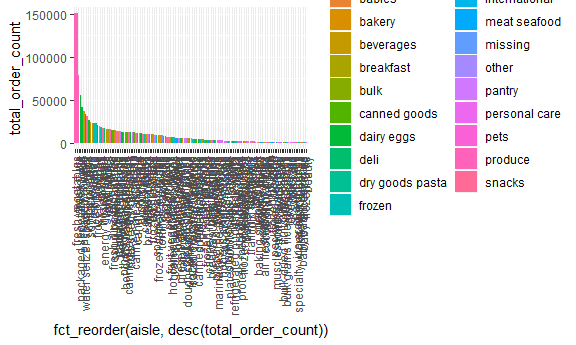
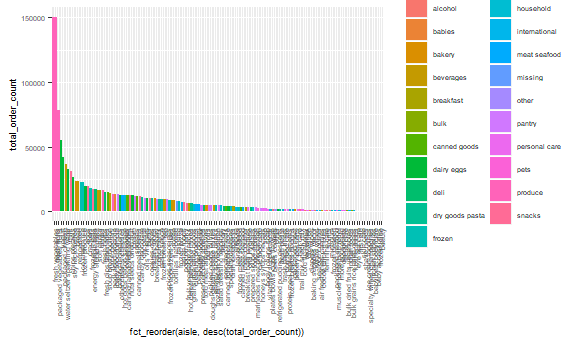
additional details

diff --git a/p8105_hw3_cac2225.md b/p8105_hw3_cac2225.md
@@ -44,7 +44,15 @@ library(dplyr)
 library(ggplot2)
 library(patchwork)
 library(forcats)
+library(ggridges)
 ```
+
+    ## 
+    ## Attaching package: 'ggridges'
+
+    ## The following object is masked from 'package:ggplot2':
+    ## 
+    ##     scale_discrete_manual
 
 To clean the dataset, the variable names will be cleaned using the janitor package, function clean\_names. Change the variable names as needed. The data is filtered based on topic, Overall Health, and responses Excellent to Poor. The response variable will be turned into a factor variable and its responses ordered.
 
@@ -184,6 +192,9 @@ First the data Instacart is loaded and the package forcats is loaded to be used 
 instacart = instacart
 ```
 
+Preliminary description of dataset
+----------------------------------
+
 ``` r
 names(instacart)
 ```
@@ -202,6 +213,9 @@ To perform a preliminary review of the dataset, the names of the variables are f
 It seems that there are orders that are made with descriptions of the orders using variables such as giving each order an ID number (order\_id), listing the day (order\_dow) and hour (order\_hour\_of\_day) the order was made, days since the prior order was made (days\_since\_prior\_order) etc. Order\_dow has values from 0 to 6, each number corresponding to a day of the week. The orders consist of products which are assigned product ids (product\_id), described by what ailse and department they came from (aisle, aisle\_id, department, department\_id), ordered by which user (user\_id), and the product's name (product\_name). Key variables would include order\_id, user\_id, product\_id, department\_id and aisle\_id, since by having these variables, one can determine important information, such as what product was ordered by whom and where that product came from. The data structure appears tidy since the variables are listed as column names and corresponding values are listed under each variable.
 
 To describe the size of the dataset, the number of observations and number of variables are 1384617, 15.
+
+Answering questions about the dataset instacart
+-----------------------------------------------
 
 ``` r
 instacart %>% 
@@ -242,15 +256,12 @@ Using the n\_distinct and count functions, there are 134 distinct aisle\_ids, th
 
 ``` r
 orders_count = instacart %>% 
-    group_by(aisle, order_id, aisle_id, department) %>%
-    summarise(order_count = n()) %>% 
-    group_by(aisle, aisle_id, department) %>% 
-    summarise(total_order_count =
-                sum(order_count))
+    group_by(aisle, aisle_id, department) %>%
+    summarise(total_order_count = n())
 
 ggplot(orders_count, aes(fct_reorder(aisle, desc(total_order_count)), total_order_count, fill = department)) + 
   geom_bar(stat = "identity") + 
-  theme(axis.text.x = element_text(angle = 90, vjust = 0.5, hjust = 1))
+  theme(axis.text.x = element_text(angle = 90, vjust = 0.5, hjust = 1), text = element_text(size = 7))
 ```
 
 <img src="p8105_hw3_cac2225_files/figure-markdown_github/number ordered items per aisle-1.png" width="90%" />
@@ -285,3 +296,78 @@ A 2x7 table is formed from the information filtered and summarized from the orig
 
 Problem 3
 =========
+
+The dataset is first loaded.
+
+``` r
+ny_noaa = ny_noaa
+```
+
+The ny\_noaa dataset consists of seven variables that describe weather station (id), amount of precipitation (prcp), amount of snowfall and depth (snow and snwd), temperature (tmax and tmin) and date (date). The total number of observation rows and number of columns are 2595176, 7. Key variables would be id and date, since these provide specific identification for each observation. The dataset is tidy since each variable is its own seperate column. The date column could be further seperated into month, year and day.
+
+Each weather station might only collect a certain subset of variables, thus there is missing data. Missing data could cause an issue when we looking for trends, skewing or hiding any potential relationships that should normally appear in the data/plot visualizations.
+
+``` r
+ny_noaa = ny_noaa %>% 
+  separate(date, into = c("year", "month", "day"), sep = "-" ) %>% 
+  mutate(prcp = as.numeric(prcp)/10,
+         tmin = as.numeric(tmin)/10,
+         tmax = as.numeric(tmax)/10)
+```
+
+Since the values of prcp, tmin and tmax are originally in tenths of a millimeter, they should first be converted into numeric variables, then divided by 10 to convert into millimeters. Additionally, to seperate the date variable, the separate function is used and the values are split via the symbol "-".
+
+``` r
+ny_noaa %>% 
+  group_by(snow) %>% 
+  summarise(common_snowfall = n()) %>% 
+  arrange(desc(common_snowfall))
+```
+
+    ## # A tibble: 282 x 2
+    ##     snow common_snowfall
+    ##    <int>           <int>
+    ##  1     0         2008508
+    ##  2    NA          381221
+    ##  3    25           31022
+    ##  4    13           23095
+    ##  5    51           18274
+    ##  6    76           10173
+    ##  7     8            9962
+    ##  8     5            9748
+    ##  9    38            9197
+    ## 10     3            8790
+    ## # ... with 272 more rows
+
+Using the group by and summarise functions, the most commonly observed values for snowfall are 0, NA and 25 mm. 0 may be the most common since it only really snows in the winter months in New York, which is three to four months out of the year. NA is very common since not all of the stations collect values on snowfall.
+
+``` r
+plot_mean_max_temp = ny_noaa %>% 
+  filter(month == "01" | month == "07") %>%
+  group_by(id, month, year) %>% 
+  summarise(mean_max_temp = mean(tmax)) %>% 
+  ggplot(aes(x = id, y = mean_max_temp)) + 
+  geom_point() + 
+  facet_grid(. ~ month)
+```
+
+Looking at the scatterplot produced, the cluster of points only occurs amongst a certain subset of stations. Thus confirming that only certain stations collect certain datapoints/information - in this case only certain stations collected termperature while the rest had missing data. In January, the mean max temperatures are all in the lower range, varying from -10 to 10 degrees Celsius. There are a few outliers with temperatures lower than -10 degrees. In July, the mean max temperatures are all in the higher range, varying from 20 to 30 degrees, with a few outliers below 20 degrees.
+
+``` r
+plot_temp = ny_noaa %>% ggplot(aes(x = tmin, y = tmax)) + geom_smooth(se = FALSE)
+
+plot_snow = ny_noaa %>% 
+  filter(snow > 0, snow < 100) %>% 
+  ggplot(aes(x = year, y = snow)) +
+  geom_violin()
+
+(plot_temp)/(plot_snow)
+```
+
+    ## `geom_smooth()` using method = 'gam' and formula 'y ~ s(x, bs = "cs")'
+
+    ## Warning: Removed 1136276 rows containing non-finite values (stat_smooth).
+
+<img src="p8105_hw3_cac2225_files/figure-markdown_github/plot tmax vs t min-1.png" width="90%" />
+
+I created a two panel plot with a linear graph of tmin versus tmax on top and a violin plot of snowfall distribution greater than 0 mm and less than 100 mm for each year on the bottom panel. The linear plot shows that as t min increases, so does t max, as expected, since in the warmer months, the minimum and maximum temperatures are expected to increase. While in the colder months, both tmax and tmin would decrease. For each year, the distribution of snowfall seems similar. Most of the snowfall received occurs between 0 to 25 mm. There are measurements of snowfall clustering around 50 and 75 as well, while the larger amounts of snowfall taper off at 100 mm.
